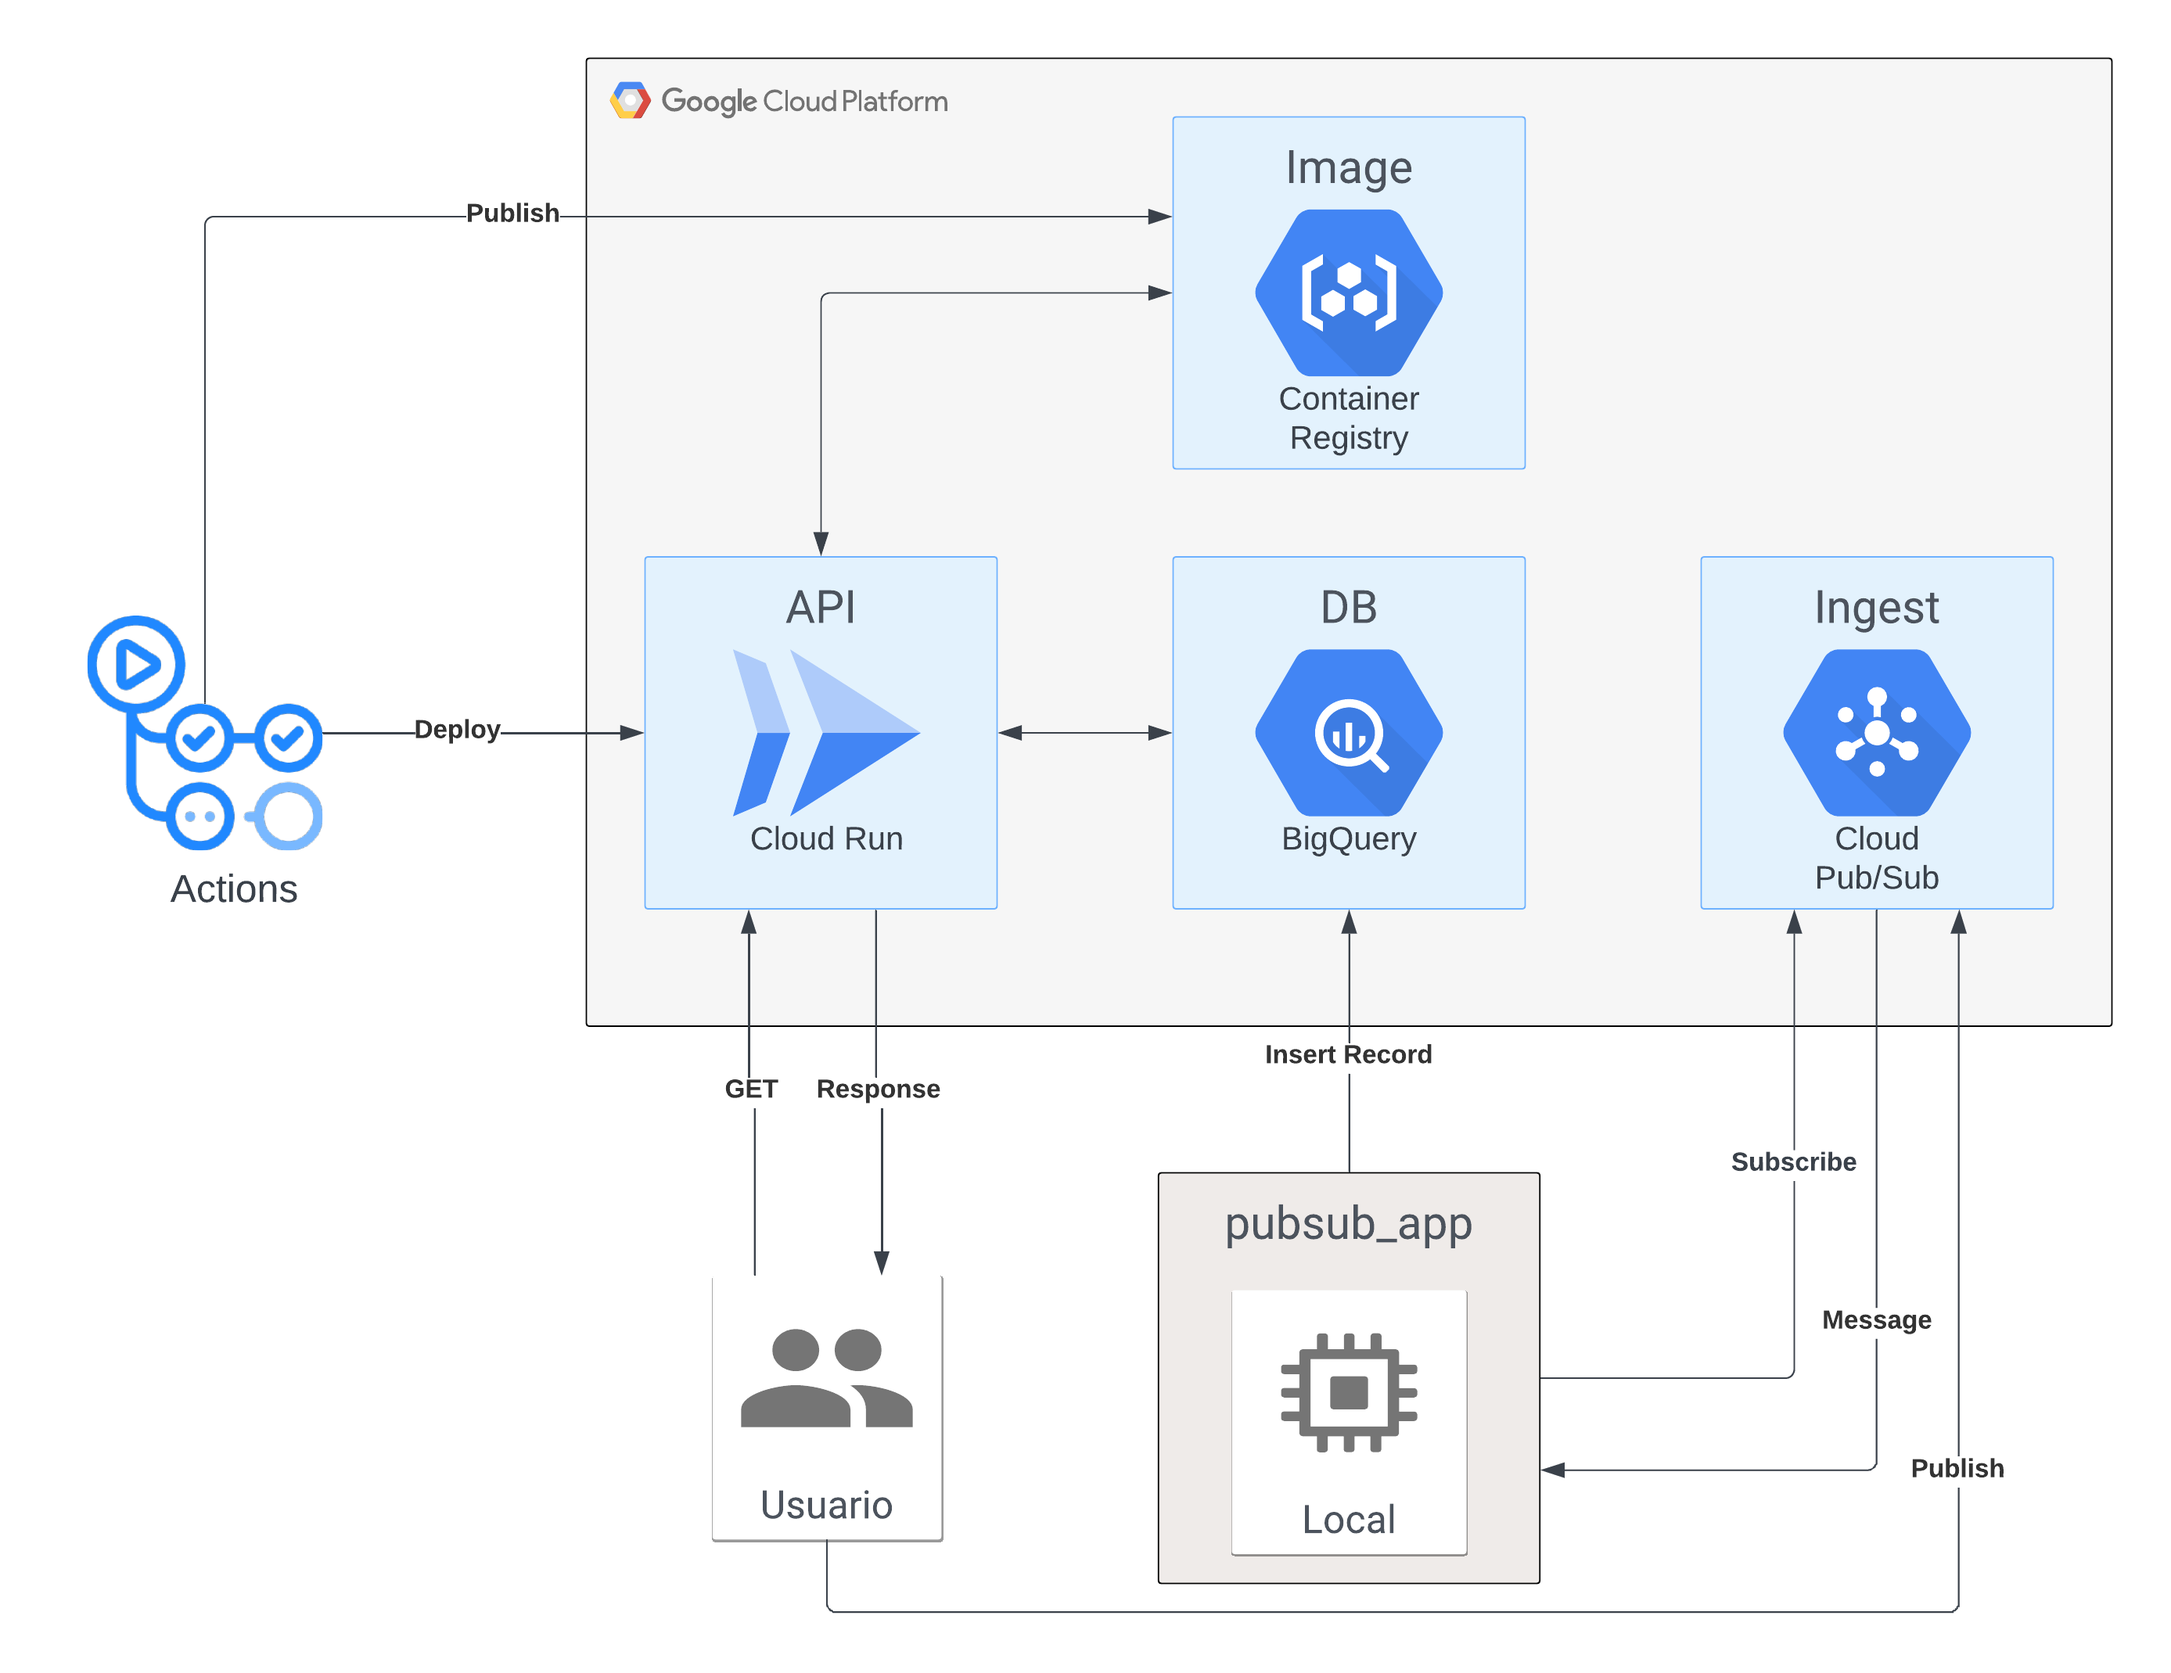
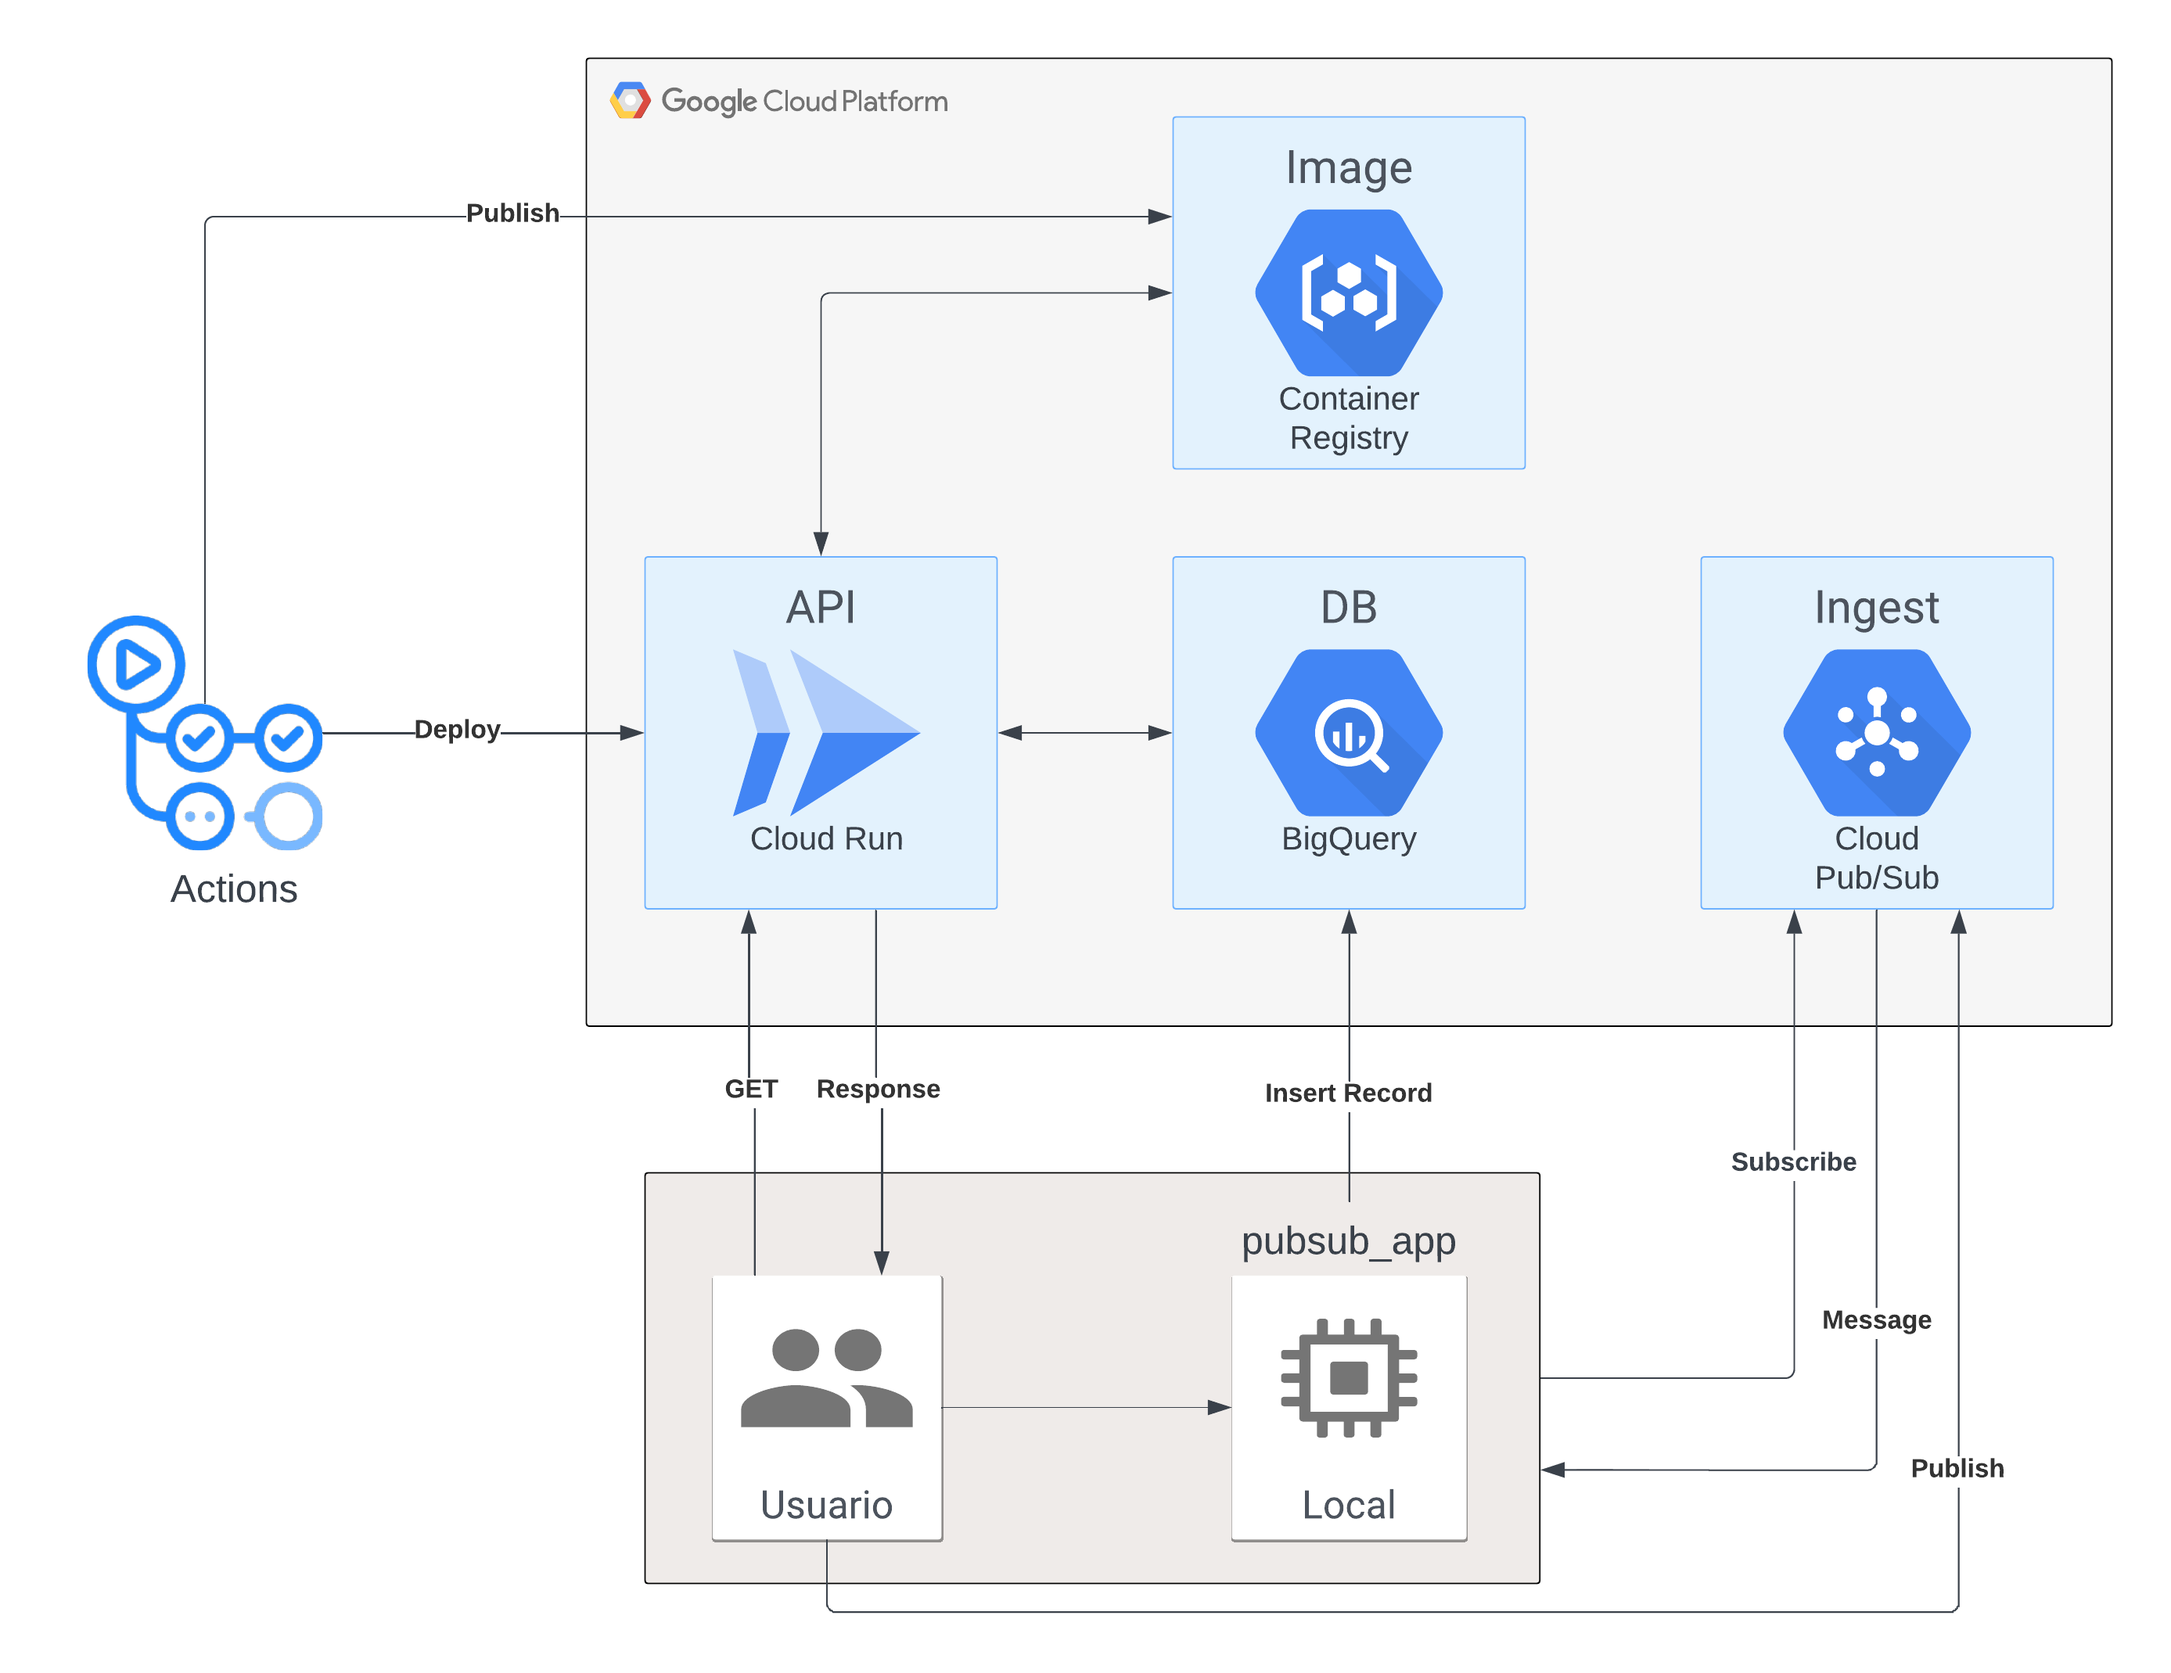
replace diagram and document it

Changed region(s): [[0.5578, 0.7097, 0.6818, 0.864], [0.5888, 0.6171, 0.6508, 0.6788], [0.5888, 0.8948, 0.6508, 0.9257]]

diff --git a/README.md b/README.md
@@ -15,13 +15,15 @@ asegurar y monitorear la salud del sistema.
 ### 1. Servicios a utilizar
 La infraestructura de la solución consta de tres partes: la ingesta de datos, el almacenamiento y la exposición de estos. Esta infraestructura utiliza los servicios de **Google Cloud Platform** (GCP).
 
-a. Para la **ingesta de datos** se utiliza el servicio **Pub/Sub** de GCP. Este recibe los datos de diversas fuentes, para luego distribuirse hacia el servicio de almacenamiento y análisis. Pub/Sub permite manejar flujos de datos en tiempo real y de manera asincrónica y escalable, siendo ideal en estos escenarios en los que es necesario desacoplar la ingesta de datos del procesamiento.
+1. Para la **ingesta de datos** se utiliza el servicio **Pub/Sub** de GCP. Este recibe los datos de diversas fuentes, para luego distribuirse hacia el servicio de almacenamiento y análisis. Pub/Sub permite manejar flujos de datos en tiempo real y de manera asincrónica y escalable, siendo ideal en estos escenarios en los que es necesario desacoplar la ingesta de datos del procesamiento.
 
-b. El **almacenamiento y análisis de datos** se realiza mediante **BigQuery**. Este almacenará los datos ingeridos y proporcionará capacidad de análisis que podrá ser aprovechada por otras aplicaciones a través de consultas SQL. BigQuery almacena y analiza grandes volúmenes de datos sin necesidad de gestionar la infraestructura subyacente, lo que simplifica su manejo, pero sin dejar de lado el análsis avanzado de datos que se requiere.
+2. El **almacenamiento y análisis de datos** se realiza mediante **BigQuery**. Este almacenará los datos ingeridos y proporcionará capacidad de análisis que podrá ser aprovechada por otras aplicaciones a través de consultas SQL. BigQuery almacena y analiza grandes volúmenes de datos sin necesidad de gestionar la infraestructura subyacente, lo que simplifica su manejo, pero sin dejar de lado el análsis avanzado de datos que se requiere.
 
-Se utilizará unicamente un `dataset` con una única tabla para simplificar la posterior consulta con la API HTTP. Las columnas de la tabla serán: un ID único, nombre, apellido y país. Siendo todos campos de tipo `string` y obligatorios.
+Se utiliza unicamente un `dataset` con una única tabla para simplificar la posterior consulta con la API HTTP. Las columnas de la tabla son: un ID único, nombre, apellido y país. Siendo todos campos de tipo `string` y obligatorios.
 
-c. Para **exponer los datos almacenados** mediante una API HTTP, se utiliza el servicio de **Cloud Run**. Este aloja la API que sirve los datos desde BigQuery, proporcionando un endpoint al que pueden consumir terceros. Al igual que BigQuery, Cloud Run es un servicio *serverless*, es decir que el *cloud provider*, en este caso GCP, se encargará de la gestíon del servidor, escalando automáticamente según la demanda y permitiendo que la API esté disponible y responda eficientemente las solicitudes sin gastar recursos innecesarios.
+3. Para **exponer los datos almacenados** mediante una API HTTP, se utiliza el servicio de **Cloud Run**. Este aloja la API que sirve los datos desde BigQuery, proporcionando un endpoint al que pueden consumir terceros. Al igual que BigQuery, Cloud Run es un servicio *serverless*, es decir que el *cloud provider*, en este caso GCP, se encargará de la gestíon del servidor, escalando automáticamente según la demanda y permitiendo que la API esté disponible y responda eficientemente las solicitudes sin gastar recursos innecesarios.
+
+Se utiliza el servicio de **Container Registry** de GCP para almacenar la imágen de Docker de la API. De esta forma, la instancia de Cloud Run podrá utilizarla y crear el contenedor con la aplicación simplemente referenciando el repositorio y el nombre de la imágen.
 
 ### 2. Despliegue de infraestructura
 
@@ -106,3 +108,9 @@ Para la **ingesta de datos** se utiliza una aplicación en Python, la cual escuc
 La aplicación se ejecuta de forma local, siguiendo los pasos de este [README.md](https://github.com/TomasAMolinari/tu-latam-challenge/blob/development/pubsub_app/README.md).
 
 Internamente, la función realiza la validación para insertar aquellos registros que contengan todos los campos necesarios. Si la información del mensaje no es correcta u ocurre algún error en el procesamiento, entonces se vuelve a intentar hasta llegar al número de intentos máximos dado en el [código](https://github.com/TomasAMolinari/tu-latam-challenge/blob/f847594e3ea7b51e6d769e30af7764e27e677af0/terraform/modules/pubsub/main.tf#L20) de Terraform. Si llega a la cantidad de intentos máximas, entonces se enviará el mensaje a otro tópico de Pub/Sub, utilizando la política de *deadman letter*.
+
+### 4. Diagrama de Arquitectura
+
+El siguiente **diagrama de arquitectura** es una representación a alto nivel de todas las interacciones del sistema, partiendo desde el momento en donde se publica la imágen de la API en Container Registry mediante el workflow de *GitHub Actions*, para luego ser utilizada por la instancia de Cloud Run, la cual recibe solicitudes de un usuario y le responde con los datos de BigQuery. A su vez el usuario publica mensajes en formato JSON al tópico de Pub/Sub, al cual se suscribe la aplicación de PubSub que es ejecutada por el usuario, y que al recibir los mensajes de este servicio, inserta la información en BigQuery.
+
+![diagrama](./img/diagrama.png)
